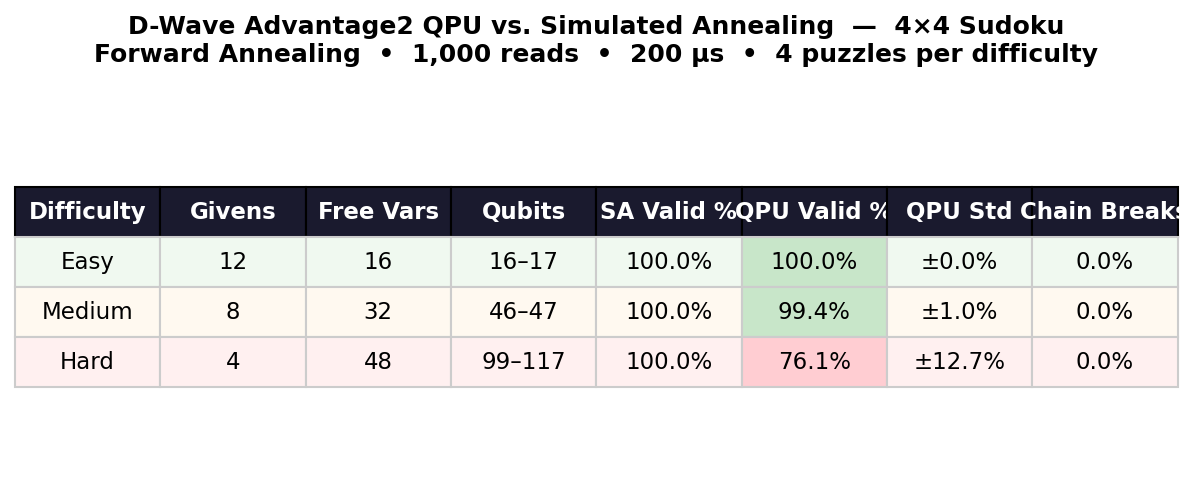
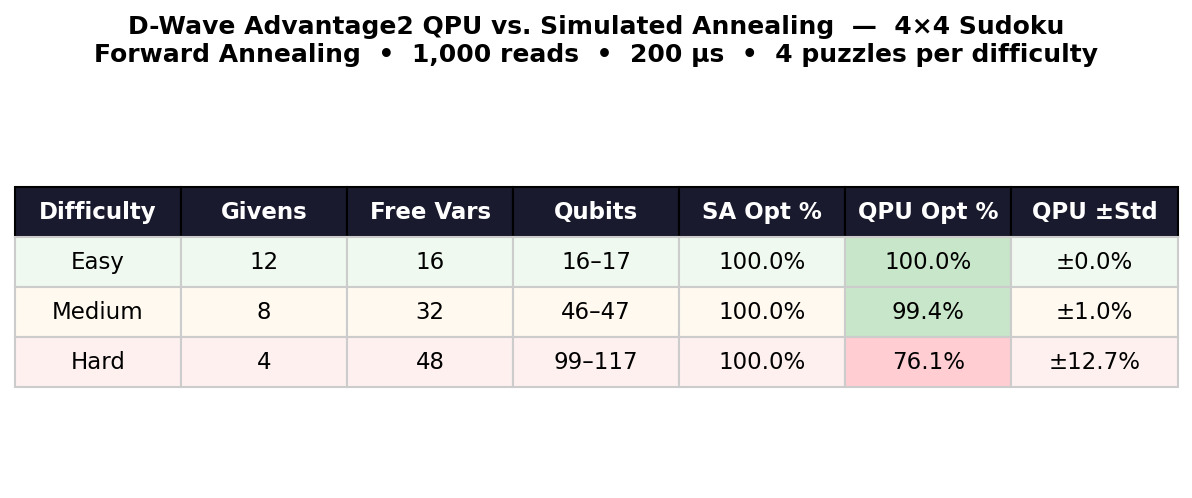
fig5: rename Valid to Opt, drop chain breaks column

diff --git a/figures/plot_qpu_results.py b/figures/plot_qpu_results.py
@@ -54,8 +54,8 @@ fig, ax = plt.subplots(figsize=(10, 3.4))
 ax.axis("off")
 fig.patch.set_facecolor("white")
 
-col_labels = ["Difficulty", "Givens", "Free Vars", "Qubits", "SA Valid %",
-              "QPU Valid %", "QPU Std", "Chain Breaks"]
+col_labels = ["Difficulty", "Givens", "Free Vars", "Qubits",
+              "SA Opt %", "QPU Opt %", "QPU ±Std"]
 
 table_data = []
 for diff in DIFFS:
@@ -66,7 +66,6 @@ for diff in DIFFS:
     qpu_vals = [r["qpu_valid_pct"] for r in group]
     qpu_avg  = np.mean(qpu_vals)
     qpu_std  = np.std(qpu_vals)
-    cb_avg   = np.mean([r["chain_break_pct"] for r in group])
     table_data.append([
         diff.capitalize(),
         str(givens),
@@ -75,7 +74,6 @@ for diff in DIFFS:
         f"{sa_avg:.1f}%",
         f"{qpu_avg:.1f}%",
         f"±{qpu_std:.1f}%",
-        f"{cb_avg:.1f}%",
     ])
 
 tbl = ax.table(
@@ -175,7 +173,7 @@ ax.axhline(100, color="#444444", linewidth=0.8, linestyle="--", alpha=0.5)
 ax.set_xticks(x)
 ax.set_xticklabels([d.capitalize() for d in DIFFS], fontsize=13)
 ax.set_xlabel("Puzzle Difficulty", fontsize=12)
-ax.set_ylabel("Valid Solution Rate (%)", fontsize=12)
+ax.set_ylabel("Optimal Solution Rate (%)", fontsize=12)
 ax.set_ylim(0, 115)
 ax.set_yticks(range(0, 101, 20))
 ax.tick_params(axis="both", labelsize=11)
